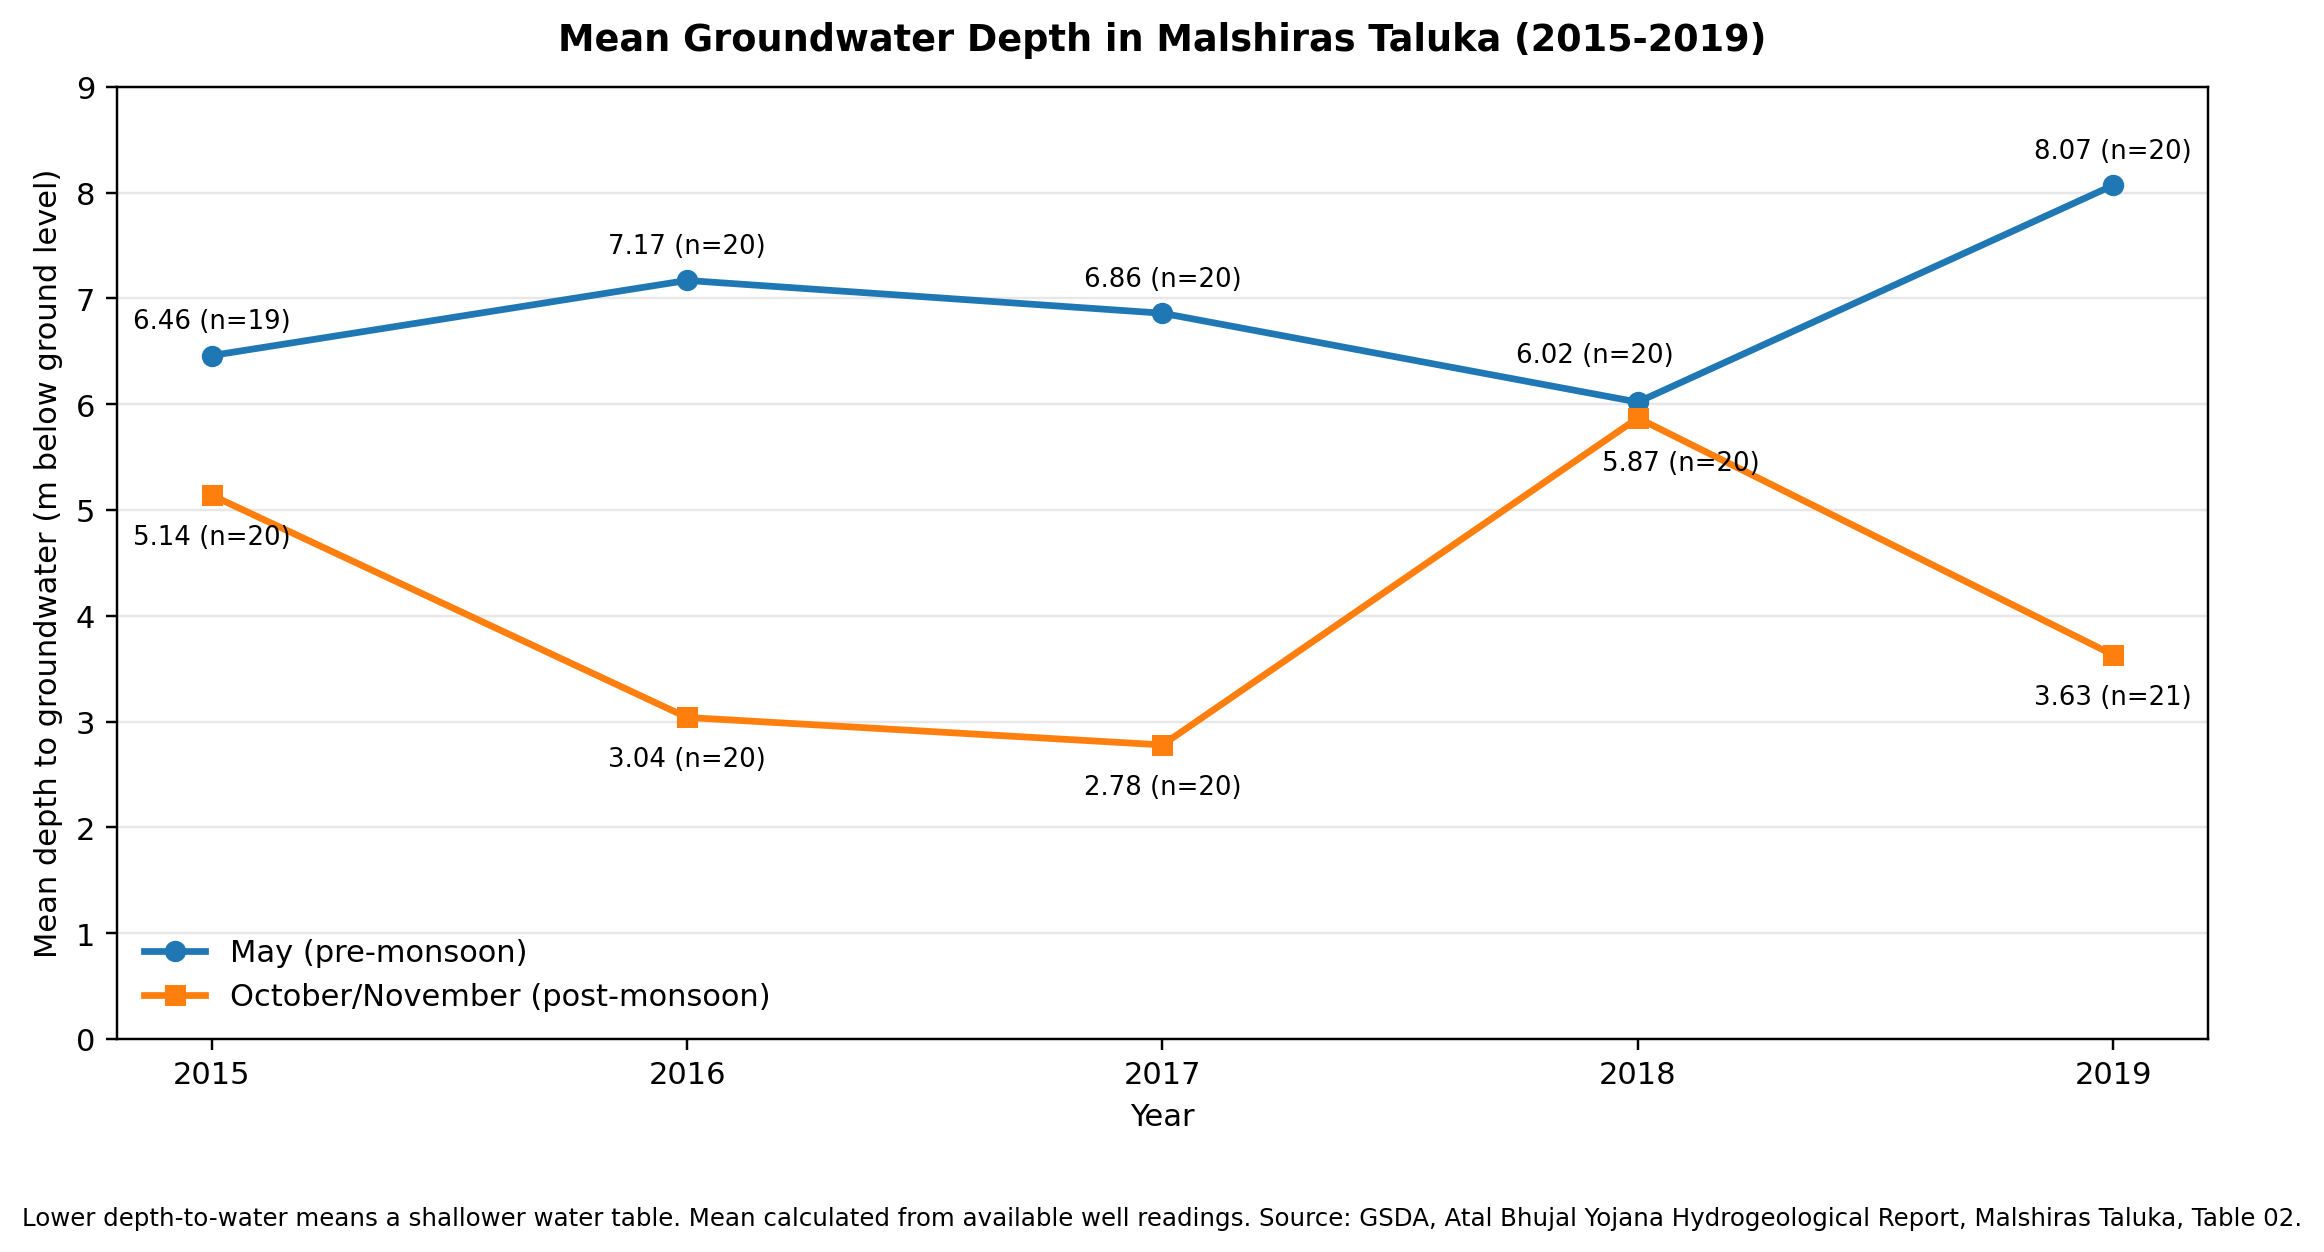
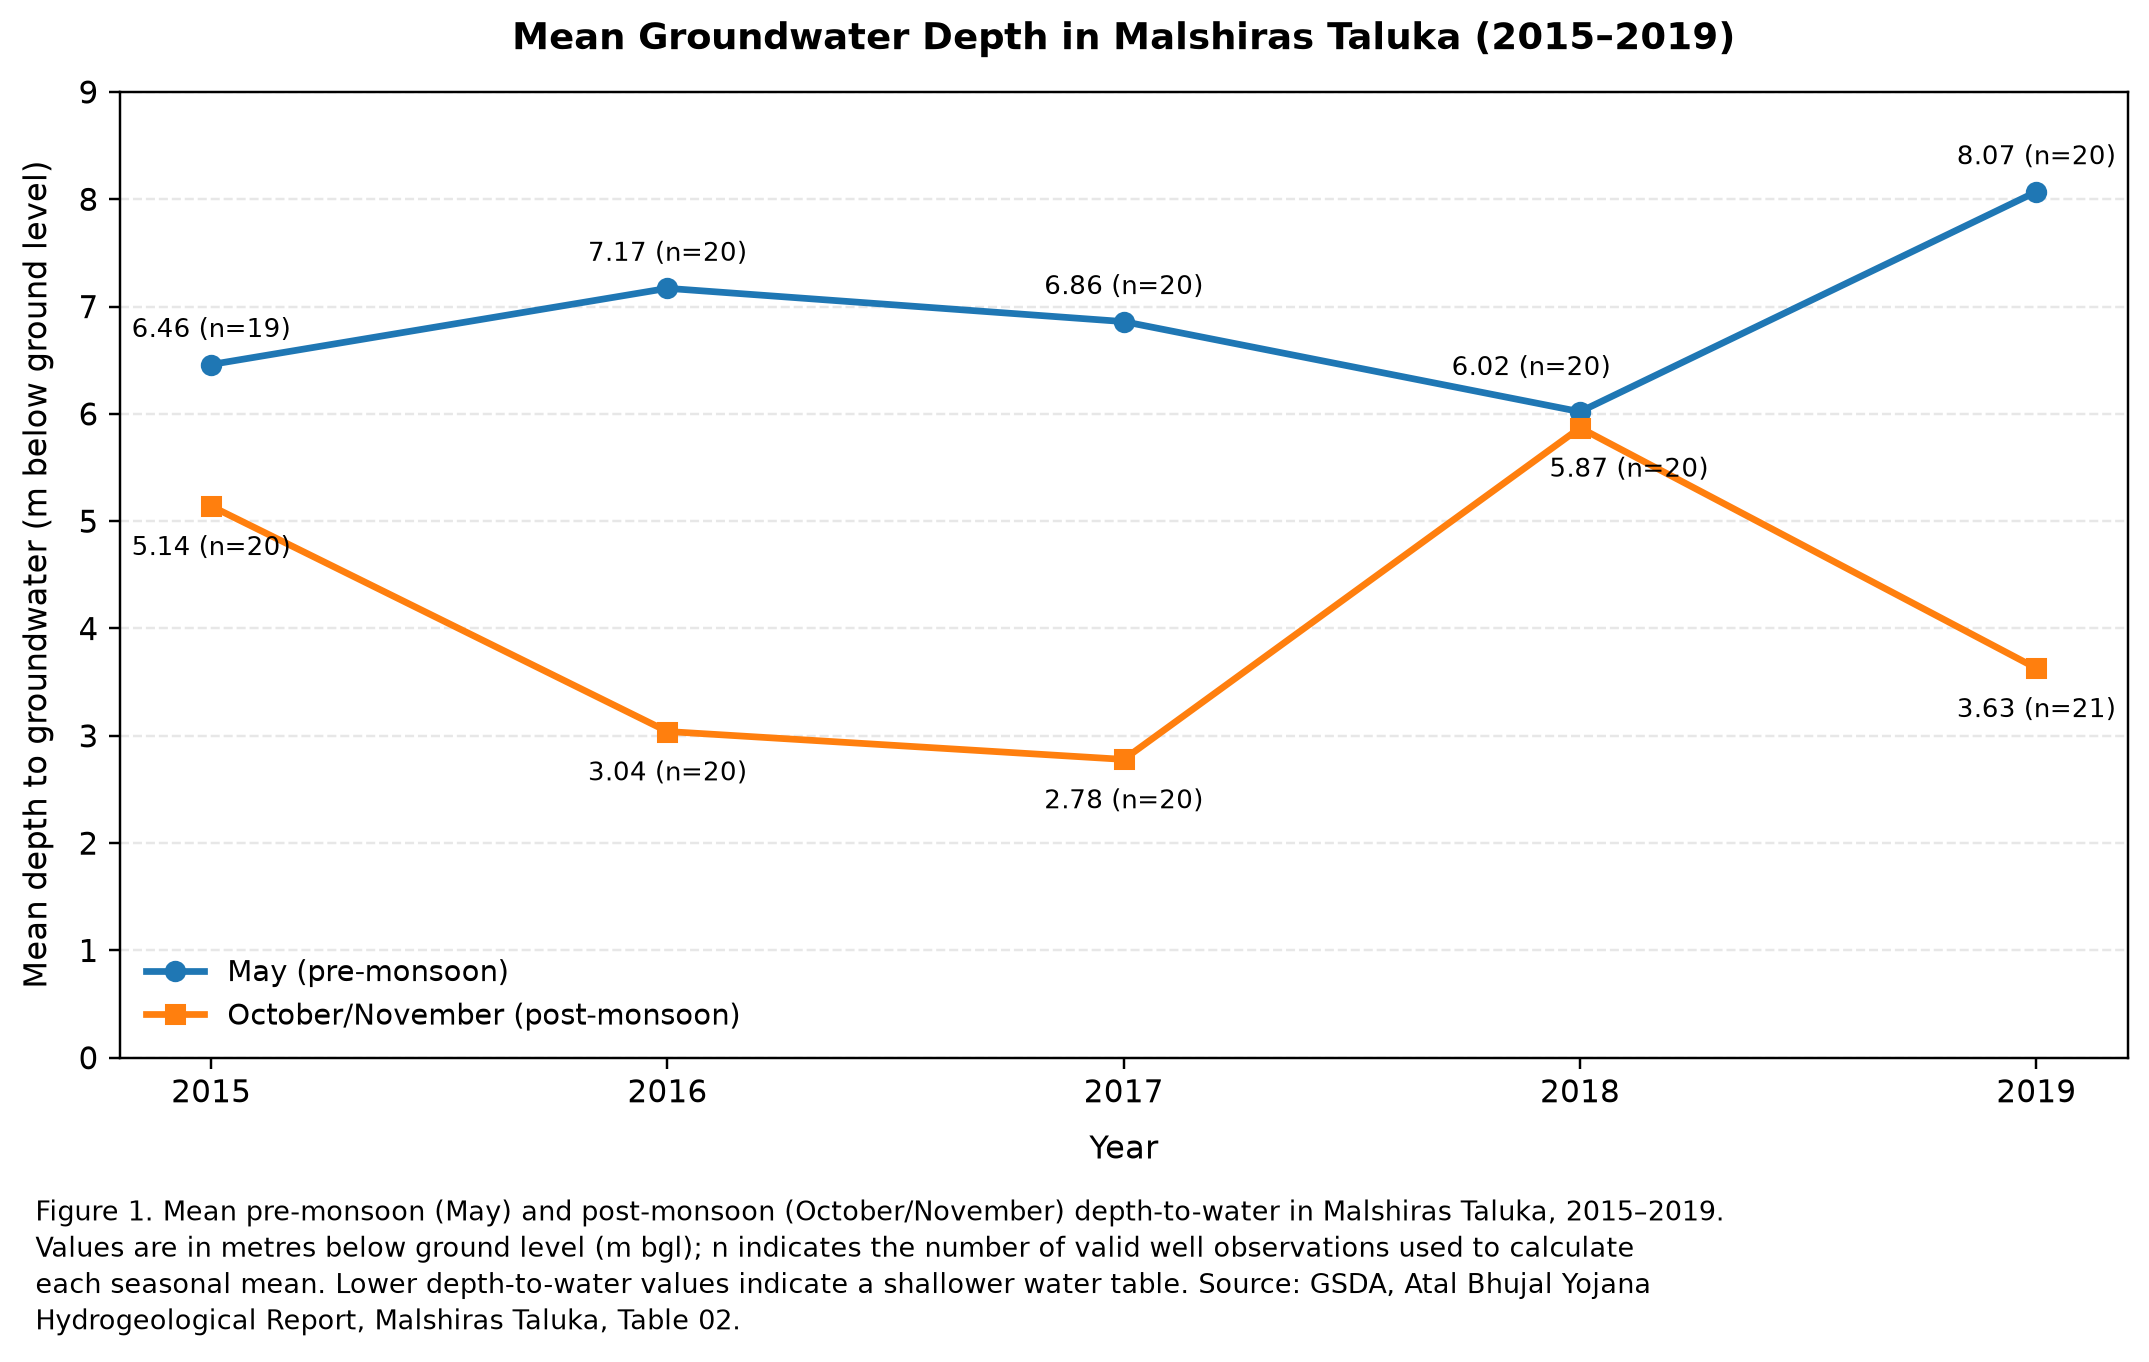
Add formal Figure 1 caption and refine layout for submission

diff --git a/groundwater_preliminary_analysis.py b/groundwater_preliminary_analysis.py
@@ -25,6 +25,7 @@ from pathlib import Path
 import csv
 import math
 import sys
+import textwrap
 
 try:
     import matplotlib.pyplot as plt
@@ -98,38 +99,45 @@ def main() -> None:
     n_pre = [r["n_may"] for r in summaries]
     n_post = [r["n_oct_nov"] for r in summaries]
 
-    fig, ax = plt.subplots(figsize=(10.2, 5.7))
-    ax.plot(years, pre, marker="o", linewidth=2.2, label="May (pre-monsoon)")
-    ax.plot(years, post, marker="s", linewidth=2.2, label="October/November (post-monsoon)")
+    fig, ax = plt.subplots(figsize=(10.5, 6.4))
+    ax.plot(years, pre, marker="o", linewidth=2.2, color="#1f77b4", label="May (pre-monsoon)")
+    ax.plot(years, post, marker="s", linewidth=2.2, color="#ff7f0e", label="October/November (post-monsoon)")
 
     for x, y, n in zip(years, pre, n_pre):
         offset = (0, 9)
         if x == 2018:
-            offset = (-14, 13)
+            offset = (-16, 12)
         ax.annotate(f"{y:.2f} (n={n})", (x, y), xytext=offset,
                     textcoords="offset points", ha="center", fontsize=8.5)
     for x, y, n in zip(years, post, n_post):
         offset = (0, -16)
         if x == 2018:
-            offset = (14, -17)
+            offset = (16, -16)
         ax.annotate(f"{y:.2f} (n={n})", (x, y), xytext=offset,
                     textcoords="offset points", ha="center", fontsize=8.5)
 
-    ax.set_title("Mean Groundwater Depth in Malshiras Taluka (2015-2019)", pad=12, weight="bold")
-    ax.set_xlabel("Year")
-    ax.set_ylabel("Mean depth to groundwater (m below ground level)")
+    ax.set_title("Mean Groundwater Depth in Malshiras Taluka (2015–2019)", pad=14, weight="bold", fontsize=12)
+    ax.set_xlabel("Year", fontsize=10.5, labelpad=8)
+    ax.set_ylabel("Mean depth to groundwater (m below ground level)", fontsize=10.5, labelpad=8)
     ax.set_xticks(years)
     ax.set_ylim(0, 9)
-    ax.grid(True, axis="y", alpha=0.3)
-    # Put legend in lower-left where it does not collide with the 2016 data label.
-    ax.legend(frameon=False, loc="lower left")
-    fig.text(
-        0.01, 0.01,
-        "Lower depth-to-water means a shallower water table. Mean calculated from available well readings. "
-        "Source: GSDA, Atal Bhujal Yojana Hydrogeological Report, Malshiras Taluka, Table 02.",
-        ha="left", va="bottom", fontsize=8
+    ax.grid(True, axis="y", alpha=0.3, linestyle="--")
+    # Put legend in lower-left where it does not collide with data labels.
+    ax.legend(frameon=False, loc="lower left", fontsize=9.5)
+
+    caption = (
+        "Figure 1. Mean pre-monsoon (May) and post-monsoon (October/November) depth-to-water in Malshiras Taluka, 2015–2019. "
+        "Values are in metres below ground level (m bgl); n indicates the number of valid well observations used to calculate "
+        "each seasonal mean. Lower depth-to-water values indicate a shallower water table. "
+        "Source: GSDA, Atal Bhujal Yojana Hydrogeological Report, Malshiras Taluka, Table 02."
     )
-    fig.tight_layout(rect=(0, 0.06, 1, 1))
+    wrapped_caption = textwrap.fill(caption, width=118)
+    fig.text(
+        0.06, 0.02,
+        wrapped_caption,
+        ha="left", va="bottom", fontsize=8.8, linespacing=1.35
+    )
+    fig.tight_layout(rect=(0.04, 0.12, 0.98, 0.98))
     fig.savefig(FIGURE_PNG, dpi=220, bbox_inches="tight")
     plt.close(fig)
 
